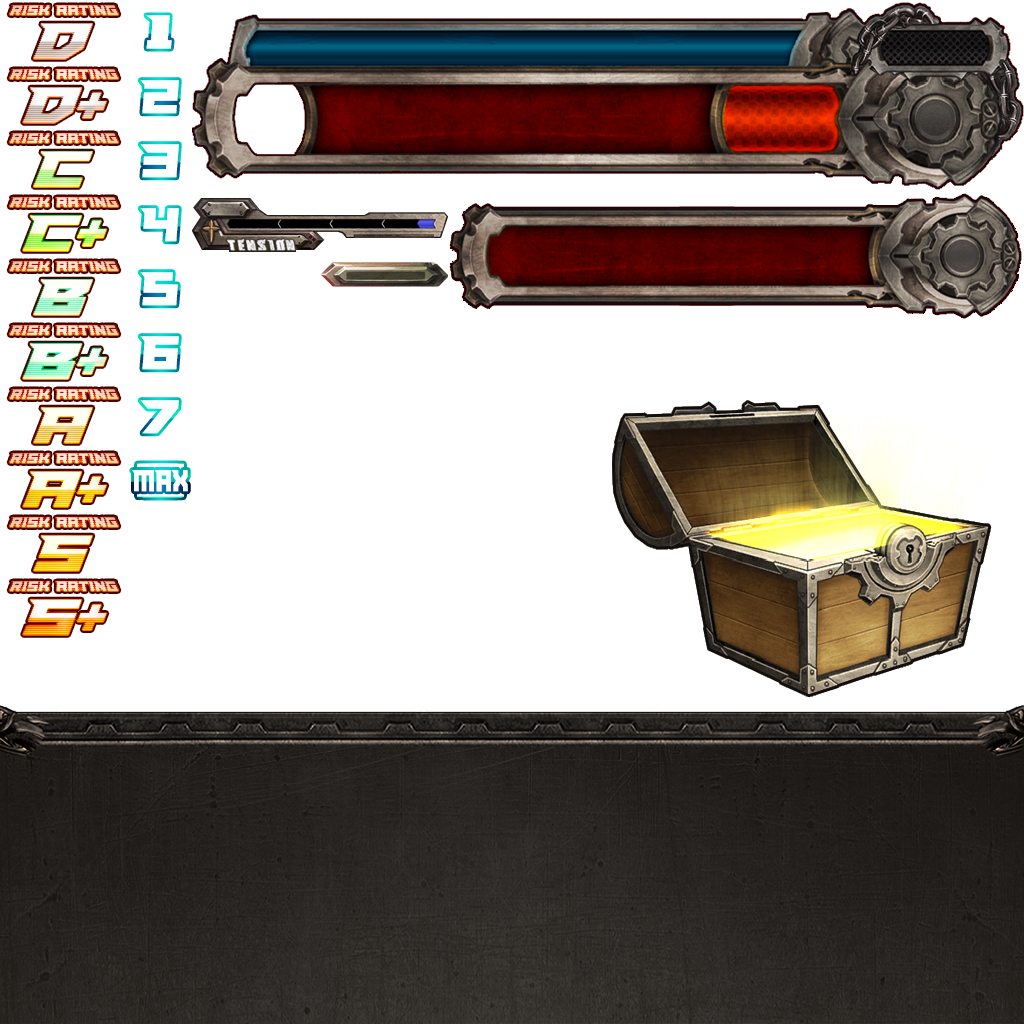
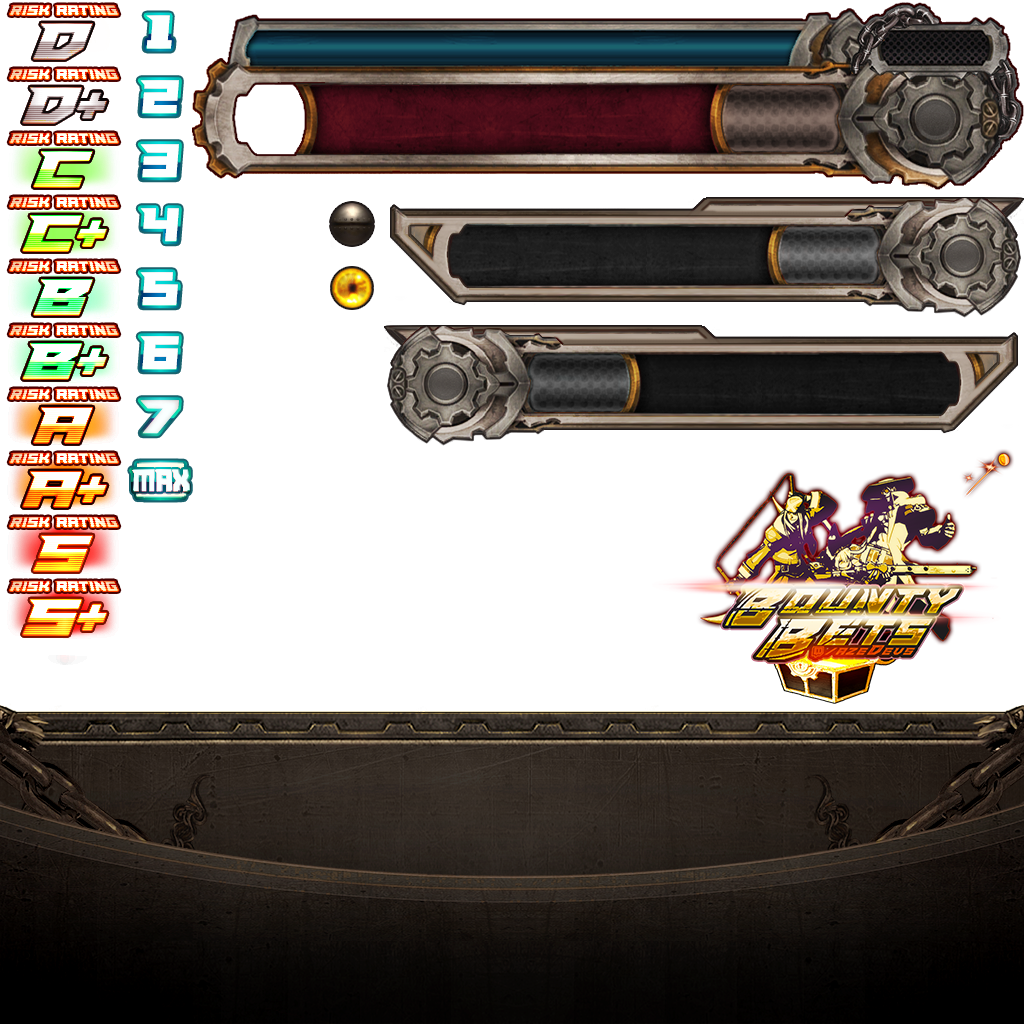
Adding in-match UI for risk rating, chain bonus, and HP values.

diff --git a/src/main/kotlin/application/stream/StreamView.kt b/src/main/kotlin/application/stream/StreamView.kt
@@ -6,6 +6,8 @@ import javafx.geometry.Rectangle2D
 import javafx.scene.Parent
 import javafx.scene.control.Label
 import javafx.scene.effect.BlendMode
+import javafx.scene.image.ImageView
+import javafx.scene.layout.HBox
 import javafx.scene.layout.StackPane
 import session.*
 import tornadofx.*
@@ -16,10 +18,22 @@ class StreamView(override val root: Parent) : Fragment() {
     var showHud = true
     var lockHud = -1
     private val bountiesGui: MutableList<BountyView> = ArrayList()
-    lateinit var lobbyView: StackPane
-    lateinit var matchView: StackPane
-    lateinit var bounty0: Label
-    lateinit var bounty1: Label
+    private lateinit var lobbyView: StackPane
+    private lateinit var matchView: HBox
+    private lateinit var bounty0: Label
+    private lateinit var health0: Label
+    private lateinit var rating0: ImageView
+    private lateinit var spirit0: ImageView
+    private lateinit var chains0: ImageView
+    private lateinit var round10: ImageView
+    private lateinit var round20: ImageView
+    private lateinit var bounty1: Label
+    private lateinit var health1: Label
+    private lateinit var rating1: ImageView
+    private lateinit var spirit1: ImageView
+    private lateinit var chains1: ImageView
+    private lateinit var round11: ImageView
+    private lateinit var round21: ImageView
     var streamView: StackPane
 
     fun updateStreamLeaderboard(allPlayers: List<Player>, s: Session) {
@@ -67,8 +81,47 @@ class StreamView(override val root: Parent) : Fragment() {
     }
 
     fun applyData(p1: Player, p2: Player, s: Session) = Platform.runLater {
-        if (p1.getSteamId() > 0L) bounty0.text = p1.getBountyString()
-        if (p2.getSteamId() > 0L) bounty1.text = p2.getBountyString()
+        if (p1.getSteamId() > 0L) {
+            bounty0.text = p1.getBountyString()
+
+            if (s.sessionMode.equals(MATCH_MODE) && s.matchHandler.clientMatch.getHealth(0) > 0) health0.text = s.matchHandler.clientMatch.getHealth(0).toString()
+            else health0.text = ""
+            rating0.viewport = Rectangle2D(p1.getRatingImage().minX, p1.getRatingImage().minY + 20, p1.getRatingImage().width, p1.getRatingImage().height - 20)
+            chains0.viewport = p1.getChainImage()
+            spirit0.isVisible = p1.getChain() > 0
+            if (s.matchHandler.clientMatch.getRounds(0) > 0) round10.viewport = Rectangle2D(320.0, 256.0, 64.0, 64.0)
+            else round10.viewport = Rectangle2D(320.0, 192.0, 64.0, 64.0)
+            if (s.matchHandler.clientMatch.getRounds(0) > 1) round20.viewport = Rectangle2D(320.0, 256.0, 64.0, 64.0)
+            else round20.viewport = Rectangle2D(320.0, 192.0, 64.0, 64.0)
+        } else {
+            bounty0.text = "FREE"
+            health0.isVisible = false
+            rating0.isVisible = false
+            chains0.isVisible = false
+            spirit0.isVisible = false
+            round10.viewport = Rectangle2D(320.0, 192.0, 64.0, 64.0)
+            round20.viewport = Rectangle2D(320.0, 192.0, 64.0, 64.0)
+        }
+        if (p2.getSteamId() > 0L) {
+            bounty1.text = p2.getBountyString()
+            if (s.sessionMode.equals(MATCH_MODE) && s.matchHandler.clientMatch.getHealth(1) > 0) health1.text = s.matchHandler.clientMatch.getHealth(1).toString()
+            else health1.text = ""
+            rating1.viewport = Rectangle2D(p2.getRatingImage().minX, p2.getRatingImage().minY + 20, p2.getRatingImage().width, p2.getRatingImage().height - 20)
+            chains1.viewport = p2.getChainImage()
+            spirit1.isVisible = p2.getChain() > 0
+            if (s.matchHandler.clientMatch.getRounds(1) > 0) round11.viewport = Rectangle2D(320.0, 256.0, 64.0, 64.0)
+            else round11.viewport = Rectangle2D(320.0, 192.0, 64.0, 64.0)
+            if (s.matchHandler.clientMatch.getRounds(1) > 1) round21.viewport = Rectangle2D(320.0, 256.0, 64.0, 64.0)
+            else round21.viewport = Rectangle2D(320.0, 192.0, 64.0, 64.0)
+        } else {
+            bounty1.text = "FREE"
+            health1.isVisible = false
+            rating1.isVisible = false
+            chains1.isVisible = false
+            spirit1.isVisible = false
+            round11.viewport = Rectangle2D(320.0, 192.0, 64.0, 64.0)
+            round21.viewport = Rectangle2D(320.0, 192.0, 64.0, 64.0)
+        }
     }
 
     fun toggleScoreboardMode(session: Session) {
@@ -116,50 +169,131 @@ class StreamView(override val root: Parent) : Fragment() {
                         }
                     }
                 }
-                matchView = stackpane {
-                    maxWidth = 1280.0
-                    minWidth = 1280.0
-                    maxHeight = 720.0
-                    minHeight = 720.0
-                    isVisible = false
-                    hbox { alignment = Pos.TOP_CENTER
-                        hbox { alignment = Pos.TOP_CENTER
-                            stackpane { alignment = Pos.TOP_CENTER
-                                imageview(getRes("gn_stream.png").toString()) {
-                                    viewport = Rectangle2D(448.0, 192.0, 576.0, 128.0)
-                                    fitWidth = 225.0
-                                    fitHeight = 50.0
-                                    translateY += 58
-                                    translateX -= 300
+
+                matchView = hbox { alignment = Pos.TOP_CENTER
+                        isVisible = false
+
+                            stackpane { alignment = Pos.TOP_LEFT
+                                imageview(getRes("gn_stream.png").toString()) { alignment = Pos.TOP_LEFT
+                                    viewport = Rectangle2D(384.0, 192.0, 832.0, 128.0)
+                                    fitWidth = 410.0
+                                    fitHeight = 60.0
+                                    translateX -= 94
+                                    translateY += 61
                                 }
                                 bounty0 = label("FREE") { alignment = Pos.CENTER_LEFT
                                     addClass(BountyStyle.bountyMatchText)
-                                    translateY += 66.0
-                                    translateX -= 300.0
+                                    translateX -= 50
+                                    translateY += 71.5
                                     blendMode = BlendMode.ADD
                                 }
-                            }
-                        }
-                        hbox { alignment = Pos.TOP_CENTER
-                            stackpane { alignment = Pos.TOP_CENTER
-                                imageview(getRes("gn_stream.png").toString()) {
-                                    viewport = Rectangle2D(448.0, 192.0, 576.0, 128.0)
-                                    fitWidth = 225.0
+                                health0 = label("") { alignment = Pos.CENTER_LEFT
+                                    addClass(BountyStyle.bountyHealthText)
+                                    translateX -= 102
+                                    translateY += 40.5
+                                    scaleX = 0.7
+                                }
+                                rating0 = imageview(getRes("gn_stream.png").toString()) {
+                                    viewport = Rectangle2D(0.0, 256.0 + 20, 128.0, 64.0 - 20)
+                                    translateX += 101
+                                    translateY += 81
+                                    fitWidth = 50.0
+                                    fitHeight = 30.0 - 10
+                                }
+                                spirit0 = imageview(getRes("cb_chain.gif").toString()) {
+                                    viewport = Rectangle2D(0.0, 0.0, 128.0, 128.0)
+                                    translateX += 166
+                                    translateY += 63
+                                    fitWidth = 50.0
                                     fitHeight = 50.0
-                                    translateY += 58
-                                    translateX += 300
-                                    rotate += 180.0
+                                    opacity = 0.96
+                                    blendMode = BlendMode.ADD
+                                }
+                                chains0 = imageview(getRes("gn_stream.png").toString()) {
+                                    viewport = Rectangle2D(128.0, 448.0, 64.0, 64.0)
+                                    translateX += 172.5
+                                    translateY += 73
+                                    fitWidth = 36.0
+                                    fitHeight = 36.0
+                                    opacity = 0.96
+                                    blendMode = BlendMode.HARD_LIGHT
+                                }
+                                round10 = imageview(getRes("gn_stream.png").toString()) {
+                                    viewport = Rectangle2D(320.0, 192.0, 64.0, 64.0)
+                                    translateX += 212
+                                    translateY += 86
+                                    fitWidth = 48.0
+                                    fitHeight = 48.0
+                                }
+                                round20 = imageview(getRes("gn_stream.png").toString()) {
+                                    viewport = Rectangle2D(320.0, 192.0, 64.0, 64.0)
+                                    translateX += 248
+                                    translateY += 86
+                                    fitWidth = 48.0
+                                    fitHeight = 48.0
+                                }
+                            }
+
+                            stackpane { alignment = Pos.TOP_RIGHT
+                                imageview(getRes("gn_stream.png").toString()) { alignment = Pos.TOP_RIGHT
+                                    viewport = Rectangle2D(384.0, 320.0, 832.0, 128.0)
+                                    fitWidth = 410.0
+                                    fitHeight = 60.0
+                                    translateX += 192
+                                    translateY += 61
                                 }
                                 bounty1 = label("FREE") { alignment = Pos.CENTER_RIGHT
                                     addClass(BountyStyle.bountyMatchText)
-                                    translateY += 66.0
-                                    translateX += 300.0
+                                    translateX += 52
+                                    translateY += 71.5
                                     blendMode = BlendMode.ADD
-
+                                }
+                                health1 = label("") { alignment = Pos.CENTER_RIGHT
+                                    addClass(BountyStyle.bountyHealthText)
+                                    translateX += 101
+                                    translateY += 40.5
+                                    scaleX = 0.7
+                                }
+                                rating1 = imageview(getRes("gn_stream.png").toString()) {
+                                    viewport = Rectangle2D(0.0, 256.0 + 20, 128.0, 64.0 - 20)
+                                    translateX -= 95
+                                    translateY += 81
+                                    fitWidth = 50.0
+                                    fitHeight = 30.0 - 10
+                                }
+                                spirit1 = imageview(getRes("cb_chain.gif").toString()) {
+                                    viewport = Rectangle2D(0.0, 0.0, 128.0, 128.0)
+                                    translateX -= 164
+                                    translateY += 63
+                                    fitWidth = 50.0
+                                    fitHeight = 50.0
+                                    opacity = 0.96
+                                    blendMode = BlendMode.ADD
+                                }
+                                chains1 = imageview(getRes("gn_stream.png").toString()) {
+                                    viewport = Rectangle2D(128.0, 448.0, 64.0, 64.0)
+                                    translateX -= 170
+                                    translateY += 73
+                                    fitWidth = 36.0
+                                    fitHeight = 36.0
+                                    opacity = 0.96
+                                    blendMode = BlendMode.HARD_LIGHT
+                                }
+                                round11 = imageview(getRes("gn_stream.png").toString()) {
+                                    viewport = Rectangle2D(320.0, 192.0, 64.0, 64.0)
+                                    translateX -= 209
+                                    translateY += 86
+                                    fitWidth = 48.0
+                                    fitHeight = 48.0
+                                }
+                                round21 = imageview(getRes("gn_stream.png").toString()) {
+                                    viewport = Rectangle2D(320.0, 192.0, 64.0, 64.0)
+                                    translateX -= 245
+                                    translateY += 86
+                                    fitWidth = 48.0
+                                    fitHeight = 48.0
                                 }
                             }
-                        }
-                    }
                 }
             }
         }

diff --git a/src/main/kotlin/application/stream/BountyView.kt b/src/main/kotlin/application/stream/BountyView.kt
@@ -10,7 +10,7 @@ import javafx.scene.layout.StackPane
 import javafx.scene.paint.CycleMethod
 import javafx.scene.paint.LinearGradient
 import javafx.scene.paint.Stop
-import session.Character.getCharacterPortrait
+import session.Character.getCharacterTrademark
 import session.Player
 import session.Session
 import tornadofx.*
@@ -59,6 +59,8 @@ class BountyView(override val root: Parent, val scaleIndex:Int) : Fragment() {
                     viewport = Rectangle2D(576.0, 192.0, 64.0, 64.0)
                     translateX -= 260
                     translateY += 18
+                    fitWidth = 64.0
+                    fitHeight = 64.0
                 }
                 imageview(getRes("gn_stream.png").toString()) {
                     viewport = Rectangle2D(192.0, 0.0, 832.0, 192.0)
@@ -223,7 +225,7 @@ class BountyView(override val root: Parent, val scaleIndex:Int) : Fragment() {
     fun applyData(p: Player, s: Session) = Platform.runLater {
         if (s.randomValues) applyRandomData(p) else
             if (p.getSteamId() > 0L) {
-                character.viewport = getCharacterPortrait(p.getData().characterId, p.isIdle())
+                character.viewport = getCharacterTrademark(p.getData().characterId)
                 handle1.text = p.getNameString(); handle1.isVisible = true
                 handle2.text = p.getNameString(); handle2.isVisible = true
                 riskRating.viewport = p.getRatingImage(); riskRating.isVisible = true

diff --git a/src/main/kotlin/application/stream/BountyStyle.kt b/src/main/kotlin/application/stream/BountyStyle.kt
@@ -18,6 +18,7 @@ class BountyStyle : Stylesheet() {
         val bountyHandleShadow by cssclass()
         val bountyBountyText by cssclass()
         val bountyMatchText by cssclass()
+        val bountyHealthText by cssclass()
         val bountyBountyShadow by cssclass()
         val bountyChangeText by cssclass()
     }
@@ -60,9 +61,16 @@ class BountyStyle : Stylesheet() {
             }
             and(bountyMatchText) {
                 fontRED?.let { font = it }
-                fontSize = 23.px
+                fontSize = 25.px
                 textFill = c("#ffcc33")
                 textFill = LinearGradient(0.0, -30.0, 0.0, 10.0, false, CycleMethod.NO_CYCLE, Stop(0.0, c(0.96, 0.96, 0.45)), Stop(0.45, c(0.96, 0.96, 0.45)), Stop(0.55, c(0.96, 0.76, 0.0)), Stop(1.0, c(0.91, 0.69, 0.0)))
+                maxWidth = 160.px
+                minWidth = 160.px
+            }
+            and(bountyHealthText) {
+                fontPaladins?.let { font = it }
+                fontSize = 23.px
+                textFill = c("#d45916")
                 maxWidth = 160.px
                 minWidth = 160.px
             }

diff --git a/src/main/kotlin/application/MainView.kt b/src/main/kotlin/application/MainView.kt
@@ -40,9 +40,12 @@ class MainView : View() {
     private fun cycleMemScan() {
         GlobalScope.launch {
             utilsGui.blinkGuiltyGearIndicator(session)
-            if (session.api.isXrdApiConnected() && session.updatePlayers()) redrawAppUi()
-            if (session.api.isXrdApiConnected() && session.updateClientMatch()) redrawAppUi()
-            delay(128); cycleMemScan()
+            if (session.api.isXrdApiConnected()) {
+                session.updatePlayers()
+                session.updateClientMatch()
+            }
+            redrawAppUi()
+            delay(32); cycleMemScan()
         }
     }
 

diff --git a/src/main/kotlin/Main.kt b/src/main/kotlin/Main.kt
@@ -9,7 +9,7 @@ import tornadofx.App
 import tornadofx.UIComponent
 import tornadofx.launch
 
-const val SIMULATE_MODE = true
+const val SIMULATE_MODE = false
 const val TRACE_BORDERS = false
 const val GHOST_OPACITY = 0.64
 
